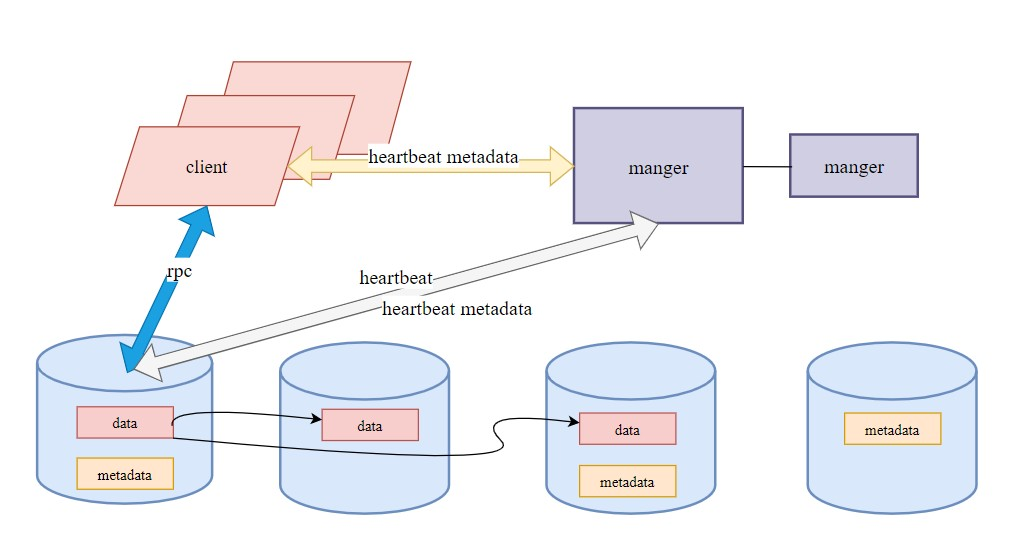
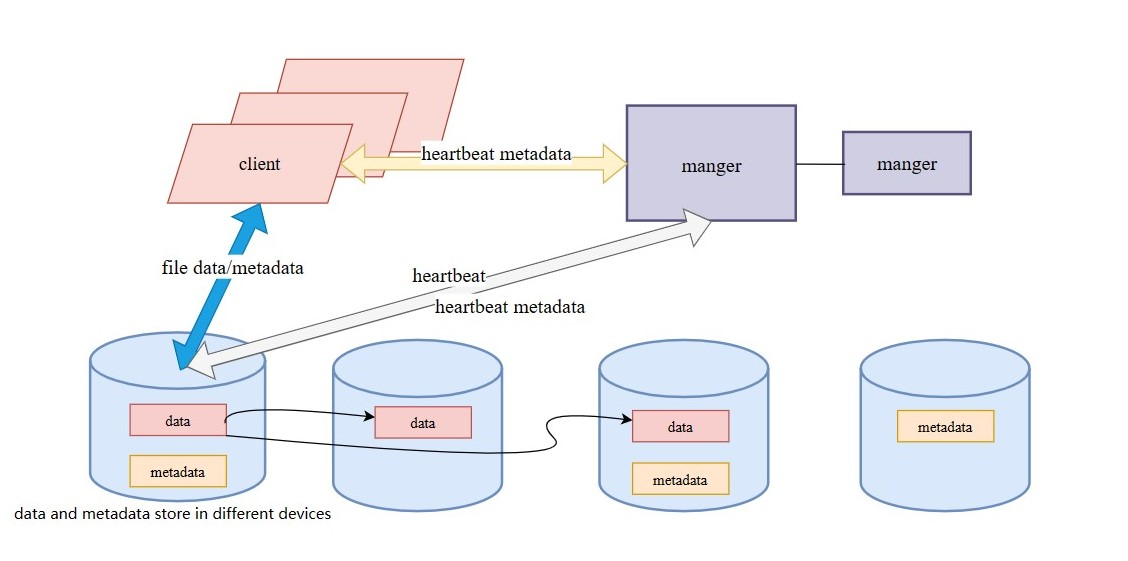
docs:add data and metadata store introduce (#79)

diff --git a/README.MD b/README.MD
@@ -7,16 +7,17 @@ The storage system of [sealos](https://github.com/labring/sealos),aim to be a hi
 The architecture of sealfs is non centralized, and there is no single metadata node. We hope to improve the read and write performance as much as possible and solve the problem of storing large amounts of small files.
 
 Sealfs consists of three components
--Server:Responsible for storing files and metadata.
+-Server:Responsible for storing files and metadata。Metadata is undoubtedly the hot file of the distributed file system, so we store data and metadata in the way of separate disks. Users can choose better hardware to store metadata.
 -client:It implements the file system in user mode, intercepts file requests, and stores and addresses them through the hash algorithm.
 -manager:Responsible for Coordinate cluster.
+
 The System Architecture picture as follows:
 ![](docs/images/architecture.jpg)
-More designs can be referred to
 
 ### User Mode in Overall Chain
 We hope to create an overall chain user mode distributed file storage system from client file request hijacking to network to storage with specific hardware, so as to obtain the ultimate performance experience.
 
+More designs can be referred to:
 ### Design Document
 [design document](https://github.com/labring/sealfs/blob/main/docs/README.MD)
 

diff --git a/docs/README.MD b/docs/README.MD
@@ -4,9 +4,10 @@
 The architecture of sealfs is non centralized, and there is no single metadata node. 
 
 Sealfs consists of three components
--Server:Responsible for storing files and metadata.
+-Server:Responsible for storing files and metadata.Metadata is undoubtedly the hot file of the distributed file system, so we store data and metadata in the way of separate disks. Users can choose better hardware to store metadata.
 -client:It implements the file system in user mode, intercepts file requests, and stores and addresses them through the hash algorithm.
 -manager:Responsible for Coordinate cluster.
+
 The System Architecture picture as follows:
 ![](images/architecture.jpg)
 
@@ -38,8 +39,8 @@ There are different ways to implement network file storage, and fuse is an easy 
 In fuse, a call process for file storage through the network includes:
 1. User status request
 2. VFS (switching)
-3. Fuse kernel module
-4. Fuse user module
+3. fuse driver
+4. fuse library
 5. network
 
 It should be noted that fuse also reduces the performance of the file system while avoiding the above problems.

diff --git a/README-ZH.MD b/README-ZH.MD
@@ -5,11 +5,12 @@
 ## 系统架构
 sealfs的架构为无中心架构，且无独立的元数据节点，我们希望尽最大可能提升读写性能和解决存储海量小文件问题
 
-- server负责文件以及元数据存储。
+- server负责文件以及元数据存储，元数据无疑是分布式文件系统的热点文件，所以我们采用分挂盘的方式对数据和元数据进行存储，用户可以选择更好的硬件对元数据进行存储。
 - client实现用户态的文件系统，对文件请求进行拦截并通过哈希算法进行存储寻址。
 - manager负责协调集群。
-  设计图如下：
-- ![](docs/images/architecture.jpg)
+
+设计图如下：
+![](docs/images/architecture.jpg)
 
 ### 全链路用户态
 我们希望结合特定硬件从客户端文件请求劫持到网络到存储打造一个全链路用户态的分布式文件存储系统，从而获得极致的性能体验。
